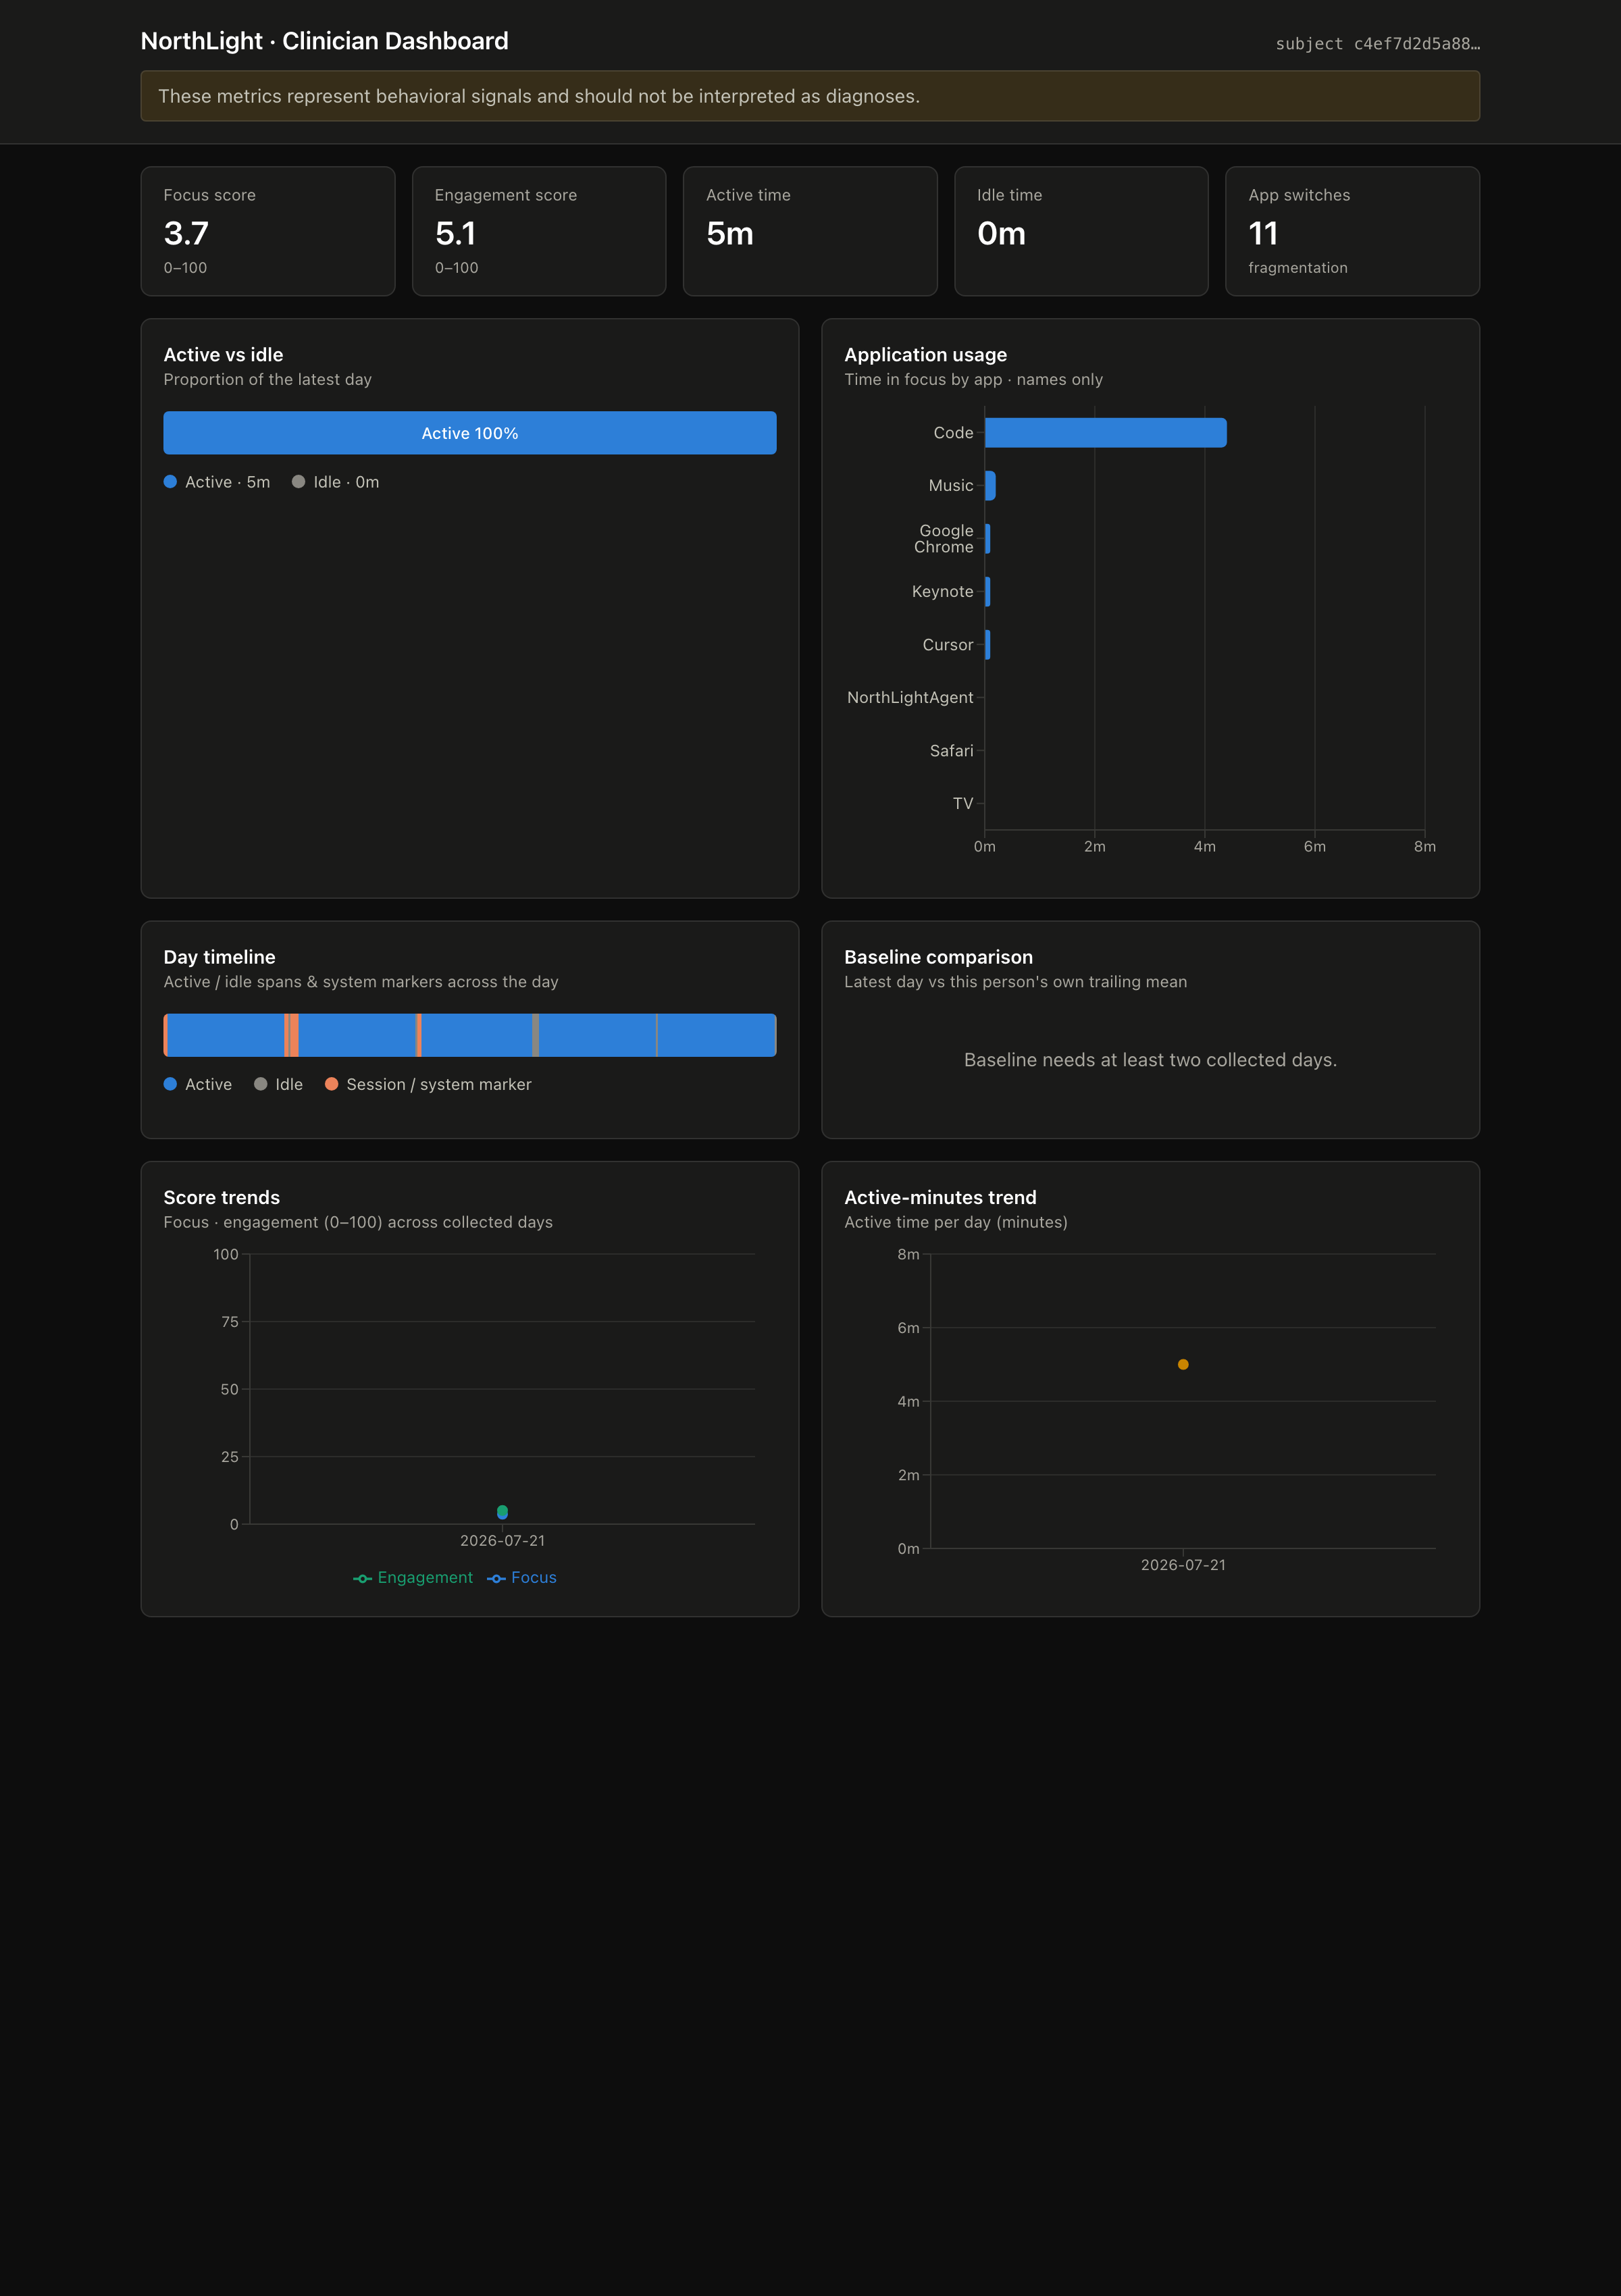
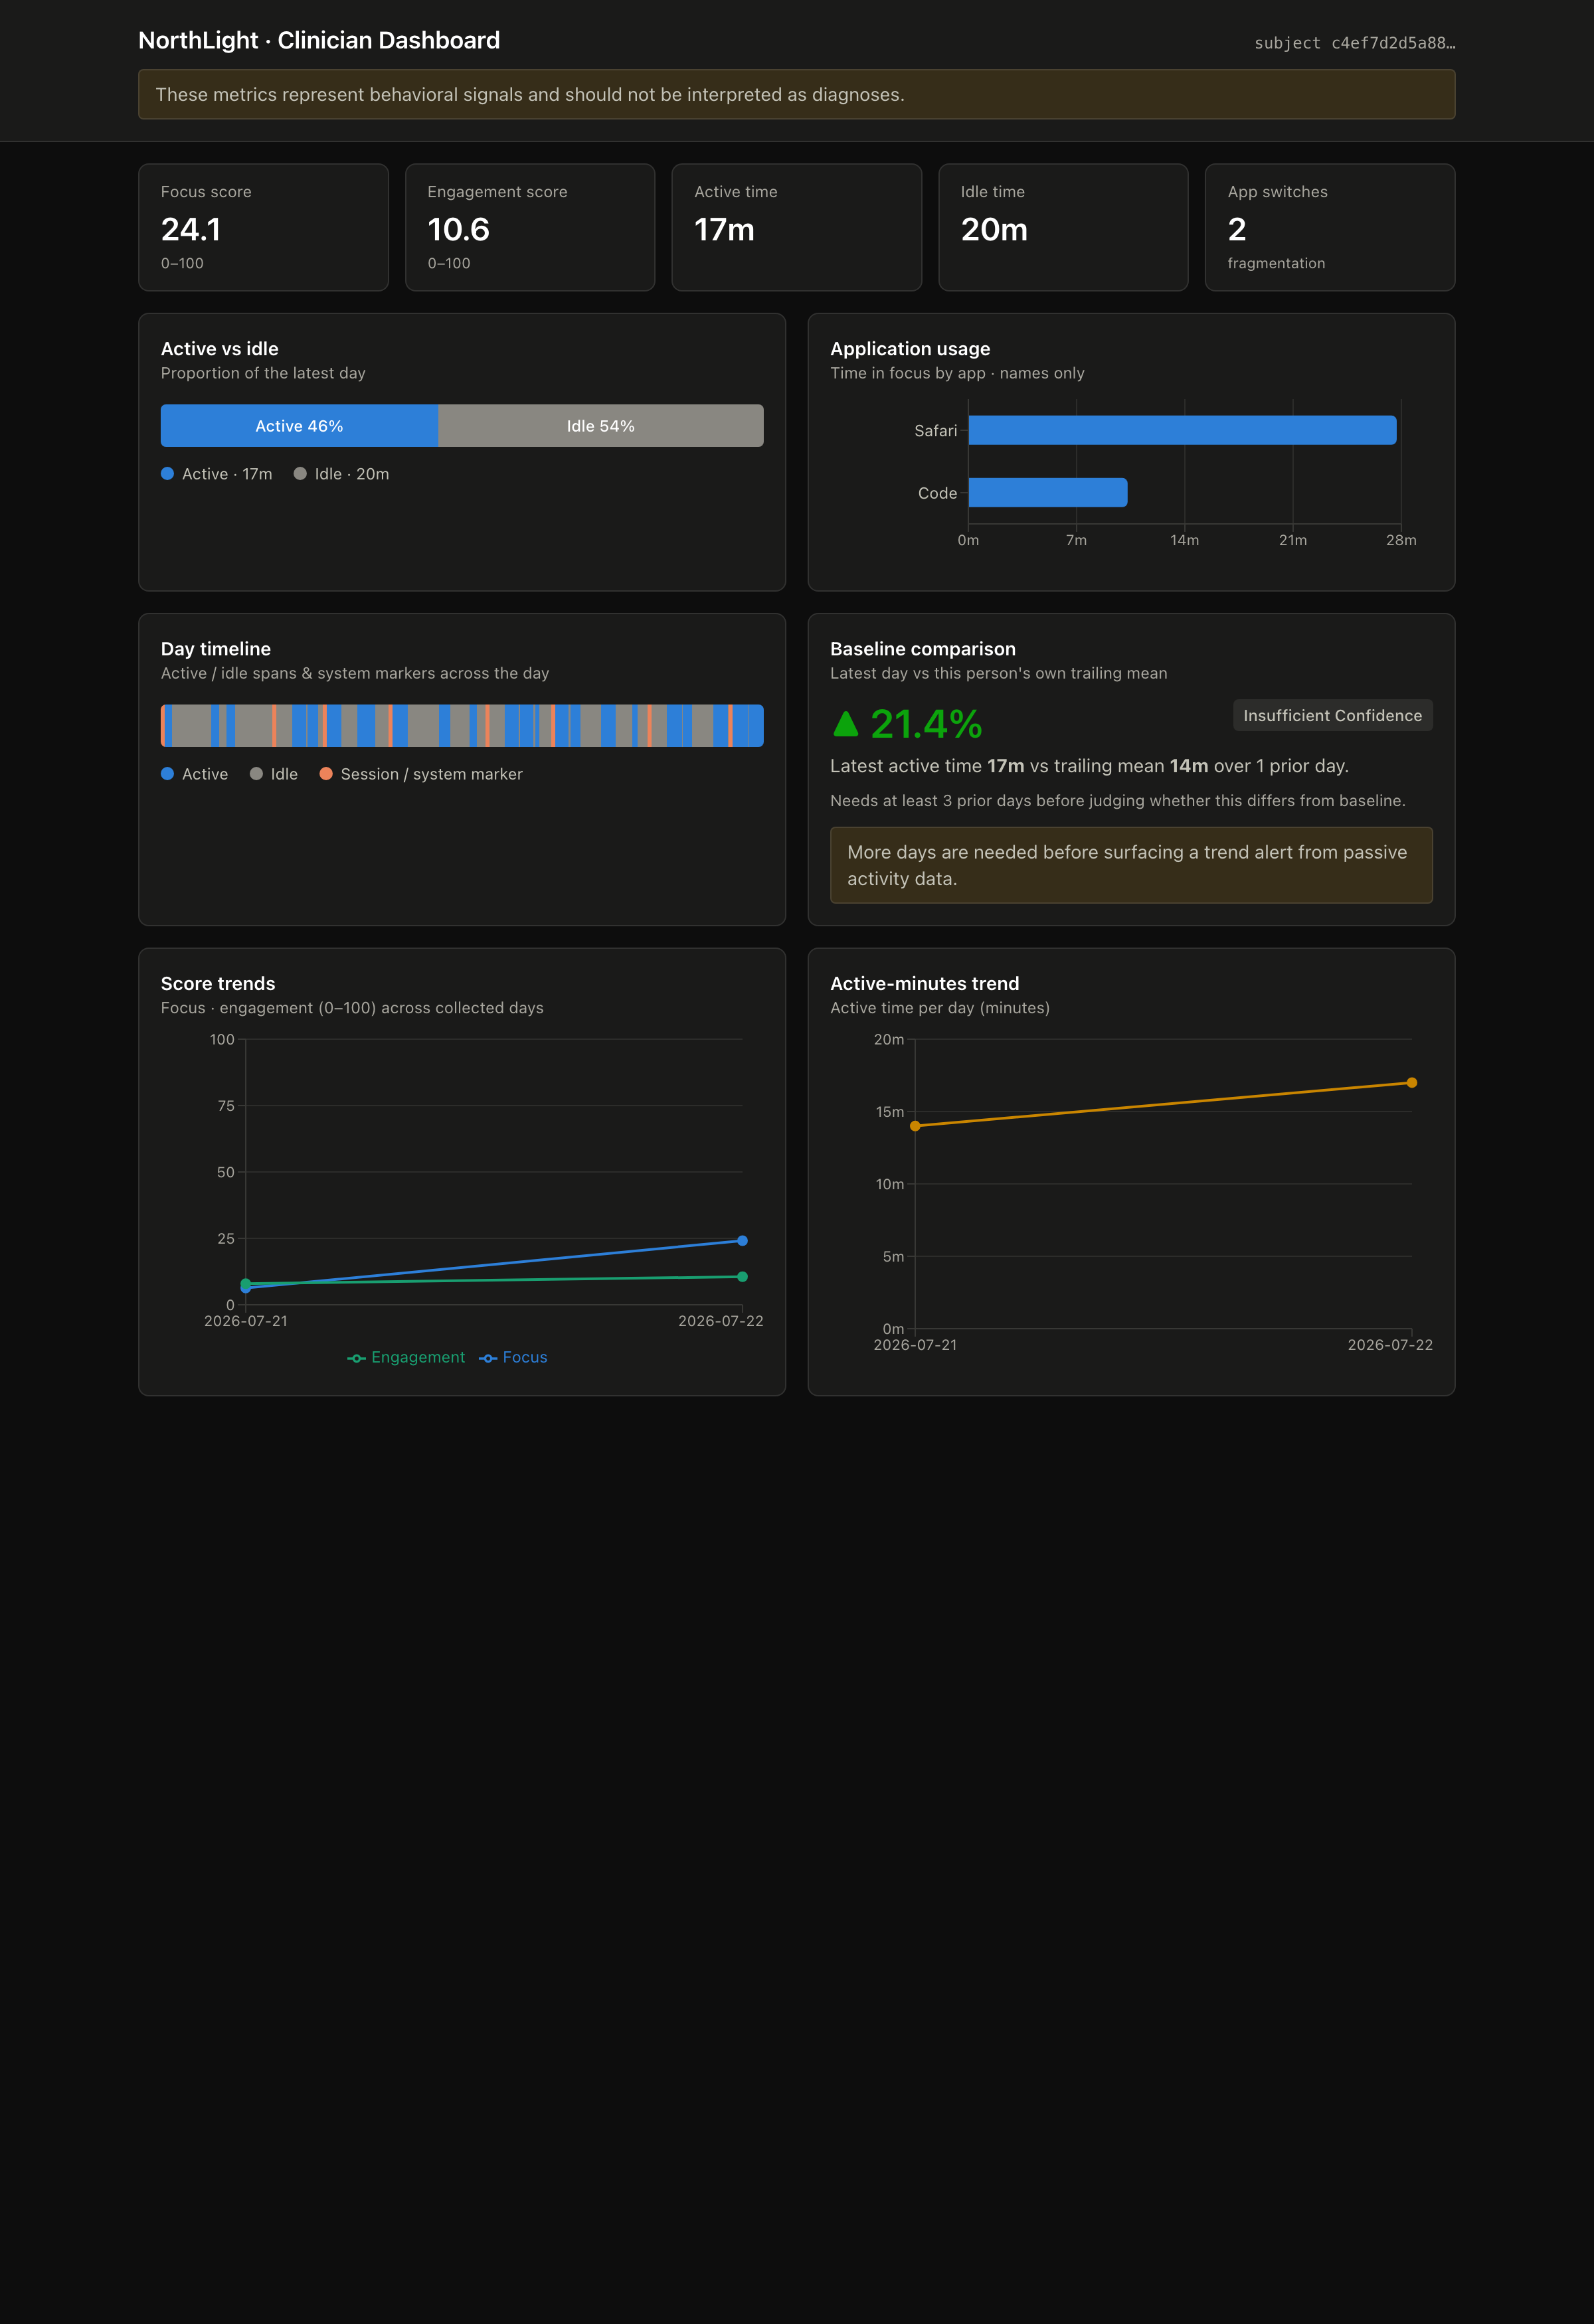
notes: replace screenshot with fuller ~55-min real session; document UTC day-bucketing split honestly

diff --git a/NOTES.md b/NOTES.md
@@ -428,10 +428,18 @@ days of history that a half-day exercise doesn't produce.
 
 `real-dashboard.png` (repo root) is the dashboard rendering **real telemetry
 captured from my own machine** — the agent built from source, Input Monitoring
-granted, **Start collection (consent)** pressed, then normal use. It shows a
-hashed subject (`c4ef7d2d…`, no `synthetic-` prefix), real focus/engagement
-scores from that session, and real foreground app names only (Code, Cursor,
-Safari, Keynote, Music, Google Chrome, TV) — no window titles, URLs, or content.
+granted, **Start collection (consent)** pressed, then ~55 minutes of normal use.
+It shows a hashed subject (`c4ef7d2d…`, no `synthetic-` prefix), real
+focus/engagement scores from that session, real foreground app names only
+(Safari, Code, Google Chrome) — no window titles, URLs, or content — and the
+baseline panel populated from real activity.
+
+> **One honest note on the dates.** This was a single continuous evening session
+> (~19:41–20:37 EDT). It appears as two days (`2026-07-21` / `2026-07-22`) because
+> aggregation buckets by **UTC** date and the session crossed 00:00 UTC (8pm EDT).
+> That is the UTC-bucketing simplification flagged in `backend/app/aggregate.py`
+> (`_local_day`): a real deployment would bucket by the patient's local timezone.
+> The split is a demonstration of that documented limitation, not two real days.
 
 ![Dashboard rendering real captured telemetry from my own machine](real-dashboard.png)
 